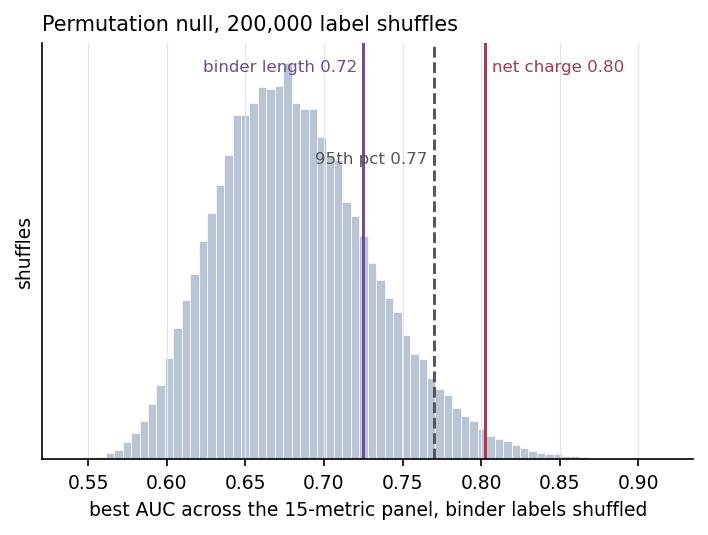
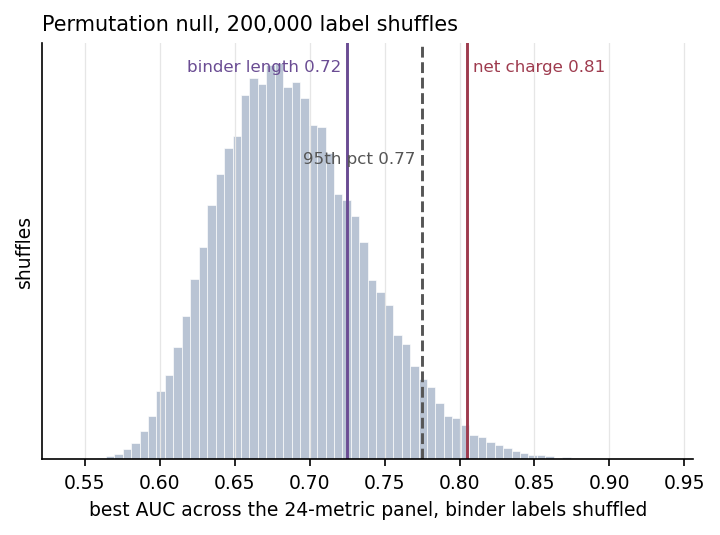
small edits

Changed region(s): [[0.0932, 0.0897, 0.9944, 0.9869], [0.0621, 0.0299, 0.6525, 0.0598], [0.0, 0.3888, 0.0621, 0.5682]]

diff --git a/_posts/2026-09-24-binders-for-rbx1.md b/_posts/2026-09-24-binders-for-rbx1.md
@@ -5,18 +5,18 @@ date: 2026-09-24
 custom_js: https://cdnjs.cloudflare.com/ajax/libs/3Dmol/2.1.0/3Dmol-min.js
 ---
 
-Of the 24 metrics I computed over the 322 designs from the GEM/Adaptyv RBX1 competition, the ones that predict whether a design *expresses* are mostly not the ones that predict whether it *binds*, and several of them predict the two in opposite directions.
+Of the 24 metrics I computed over the 321 measured designs from the GEM/Adaptyv RBX1 competition, the ones that predict whether a design *expresses* are mostly not the ones that predict whether it *binds*, and several of them predict the two in opposite directions.
 
 ![AUC for each metric, expression vs binding](/images/rbx1/auc-expression-vs-binding.png)
 
 The metrics are plotted in their raw direction, so distance from the dashed line at 0.5 is what's important and anything to the left of it is predicting in reverse. (The figure shows 19 of the 24; the near-duplicate aggregations are in the tables below.) There are four standout results here:
 
 - **The two charge metrics are the only ones near the top for both.** `seq_fraction_charged` is the best expression predictor at 0.740 and is third for binding at 0.695; net charge at pH 7 is the strongest binding signal and third strongest for expression. Everything else that is good at one is mediocre or reversed at the other.
-- **Binder length, interface contacts, buried SASA and aggregation all sit below 0.5 for expression and above it for binding.** Filtering hard on expression proxies is therefore partly selecting against binding.
-- **The strongest single binding signal is net charge at pH 7**, which lands at 0.197, meaning 0.80 read in the negative direction. A plain sequence property with no structural information in it beats every interface metric here, and every `iface_*` metric except `iface_pdockq` falls within 0.07 of chance, with `iface_iptm` the furthest out at 0.561 and `iface_pdockq2` the closest in at 0.496.
-- **The best metric by AUC isn't the one I'd rank on.** This one isn't in the plot: net charge has the best AUC but an average precision of 0.088, against 0.229 for interface contacts. With a budget to test 20 designs I'd pick differently.
+- **Binder length, interface contacts, buried SASA and aggregation all sit below 0.5 for expression and above it for binding.** These four point one way for binding and the other for expression. 
+- **The strongest single binding signal is net charge at pH 7**, which lands at 0.195, or 0.81 when read in the negative direction. A plain sequence property with no structural information in it beats every interface metric here, and every `iface_*` metric except `iface_pdockq` falls within 0.07 of chance, with `iface_iptm` the furthest out at 0.561 and `iface_pdockq2` the closest in at 0.495. Given the disagreement between `iface_pdockq` and `iface_pdockq2` we shouldn't read much into that exception.
+- **The interface metrics mainly seem to predict expression, not binding.** The expression side has 255 positives and enough statistical power to determine significance, and there eleven of the 24 metrics clear a permutation-corrected bar, `ipTM`, `LIS`, `pDockQ2` and `iPAE` among them. The same metrics are indistinguishable from noise on binding. These metrics clearly predict expression, but we can't be sure that they predict binding using this data.
 
-With 9 binders out of 322 none of this is conclusive, and I'll come back to that below. The rest of this post is how I got there: a pipeline for generating binders, and then a look at how the competition's binders would have scored against the usual selection metrics.
+With 9 binders out of 321 this is enough to pick out one signal and not enough to judge the rest, so there isn't the statistical power here to say with much confidence what does and doesn't correlate with binding. The rest of this post is how I got there: a pipeline for generating binders, and then a look at how the competition's binders would have scored against the usual selection metrics.
 
 ## Why RBX1 is hard
 
@@ -30,7 +30,7 @@ On the other end of the protein it has three zinc ions which get held in a cross
 
 And finally it lacks useful evolutionary relatives or analogues, so MSA based approaches have little to go on.
 
-The scale of the problem shows in the fold-prediction baselines. According to a [blog post by the winners of the competition](https://research.mandrake.bio/p/we-dont-even-design-binders), Mandrake bio, ESMFold reaches pLDDT 0.40 on this target, Protenix ab initio 0.60, Boltz-2 0.63. All of these are uninformative or marginal. In adaptyv's competition out of 322 designs, only 9 bound to the target and 255 expressed.
+The scale of the problem shows in the fold-prediction baselines. According to a [blog post by the winners of the competition](https://research.mandrake.bio/p/we-dont-even-design-binders), Mandrake bio, ESMFold reaches pLDDT 0.40 on this target, Protenix ab initio 0.60, Boltz-2 0.63. All of these are uninformative or marginal. In adaptyv's competition, of the 321 designs that were actually measured, only 9 bound to the target and 255 expressed.
 
 Mandrake's ORBIT pipeline took an approach that:
 
@@ -91,7 +91,7 @@ The first question is: when we use RFDiffusion to design binders against our fol
 
 
 ### Are the sequences self consistent?
-RFDiffusion gives us a structure which hopefully gets nice and close to our stated binding spots, which we can then reverse-fold into a sequence using SolubleMPNN. The natural question is then: If we do this and then refold the sequences do we get back to something that looked like the original sequence we proposed, or does SolubleMPNN just hallucinate something that doesn't give us the sequence we want? Unfortunately since we don't get the original sequences from the 322 contest entries we can't check this for them, but we can test the generated backbones from the last step.
+RFDiffusion gives us a structure which hopefully gets nice and close to our stated binding spots, which we can then reverse-fold into a sequence using SolubleMPNN. The natural question is then: If we do this and then refold the sequences do we get back to something that looked like the original sequence we proposed, or does SolubleMPNN just hallucinate something that doesn't give us the sequence we want? Unfortunately since we don't get the original sequences from the 322 released contest entries we can't check this for them, but we can test the generated backbones from the last step.
 
 | | value |
 |---|---|
@@ -104,12 +104,12 @@ RFDiffusion gives us a structure which hopefully gets nice and close to our stat
 Looks pretty good, SolubleMPNN clearly does a good job at this.
 
 ## Evaluating the published dataset
-In the next couple of sections we will take a really crude look at what metrics predict expression and binding in the set of proposed binders released after the competition. To do this properly we should probably look more generally beyond RBX1 considering how few binders there were and deal with uncertainty and significance properly. But just to start let's see.
+In the next couple of sections we will take a look at what metrics predict expression and binding in the set of proposed binders released after the competition. 
 
-Throughout, AUCs are reported in each metric's raw direction, except the error and energy metrics marked *(sign-flipped)*, where the raw quantity is one you want to minimise. Average precision is raw throughout, which matters for the metrics that predict in reverse. An AUC below 0.5 doesn't mean the metric is useless, it means it predicts in reverse: subtract it from 1 to get its strength in the other direction. So what matters is distance from 0.5, not whether a number is large.
+Throughout, AUCs are reported in each metric's raw direction, except the error and energy metrics marked *(sign-flipped)*, where the raw quantity is one you want to minimise. Average precision is raw throughout, which matters for the metrics that predict in reverse. An AUC below 0.5 doesn't mean the metric is useless, it means it predicts in reverse: subtract it from 1 to get its strength in the other direction. So what matters is distance from 0.5, not just the size of the number.
 
 ### Expression (n=321, 255 expressed)
-Before a design can bind to the target it must express, meaning they must be able to be produced in the assay adaptyv used. (Note one design had no binder label.)
+Before a design can bind to the target it must express, meaning they must be able to be produced in the assay Adaptyv used. (322 designs were released but one, `ivory-dove-granite`, carries no experimental record of any kind, so every number here is over the 321 that were actually measured.)
 
 | metric | AUC |
 |---|---|
@@ -117,23 +117,23 @@ Before a design can bind to the target it must express, meaning they must be abl
 | `binder_mean_plddt` | 0.633 |
 | `iface_pdockq2` | 0.632 |
 | `iface_ipae` *(sign-flipped)* | 0.631 |
-| `struct_binding_energy` *(sign-flipped)* | 0.620 |
 | `iface_lis` | 0.620 |
 | `iface_iptm` | 0.619 |
+| `struct_binding_energy` *(sign-flipped)* | 0.618 |
 | `iface_ipsae_min` | 0.614 |
-| `struct_dg_dsasa_ratio` *(sign-flipped)* | 0.610 |
+| `struct_dg_dsasa_ratio` *(sign-flipped)* | 0.608 |
 | `iface_i_pdae` (symmetrised) | 0.607 |
 | `iface_ipsae` | 0.605 |
-| `iface_i_pdae_asymmetric` | 0.604 |
+| `iface_i_pdae_asymmetric` | 0.603 |
 | `iface_pdockq` | 0.580 |
-| `struct_interface_hbonds` | 0.534 |
-| `struct_shape_complementarity` | 0.533 |
-| `struct_interface_hydrophobicity` | 0.512 |
-| `struct_interface_hydrophobic_fraction` | 0.493 |
+| `struct_interface_hbonds` | 0.537 |
+| `struct_shape_complementarity` | 0.532 |
+| `struct_interface_hydrophobicity` | 0.509 |
+| `struct_interface_hydrophobic_fraction` | 0.494 |
 | `struct_buried_sasa` | 0.435 |
-| `struct_contacts` | 0.414 |
+| `struct_contacts` | 0.415 |
 | `binder_length` | 0.406 |
-| `seq_aggregation` | 0.369 |
+| `seq_aggregation` | 0.368 |
 | `seq_pi` | 0.323 |
 | `seq_net_charge_ph7` | 0.311 |
 | `seq_gravy` | 0.278 |
@@ -142,10 +142,14 @@ This makes sense, the SolubleMPNN weights were shown to be very important to get
 
 pLDDT and iPAE, the folding model's confidence in its own predictions on a per residue level and predicted aligned error respectively, are inherited by or correlated with a lot of the interface metrics. It makes sense for these to be positively correlated with expression: if the model is more confident that it has predicted the structure right, or if it predicts a lower average error when aligning on all the residues, the design is probably more plausible as a real structure. Maybe. And as we will see, expression doesn't guarantee binding.
 
+The expression side is also the half of this dataset with enough positives to speak confidently on. Running a 24-metric permutation test here, where 255 positives put the best-of-panel null at 0.58 rather than 0.69, eleven of the 24 clear the bar: the four charge and hydropathy metrics (`seq_fraction_charged`, `seq_pi`, `seq_net_charge_ph7`, `seq_gravy`) overwhelmingly, at p < 0.0001, then `binder_mean_plddt`, `seq_aggregation`, `iface_pdockq2`, `iface_ipae`, `iface_lis`, `iface_iptm` and `struct_binding_energy` between 0.011 and 0.042. So the interface-confidence metrics predict expression well here.
+
+It's worth noting that what really constrains our confidence here isn't the 255 expressors, it's the 66 failures: the minority class determines the standard error. With 66 of them the bar a metric needs to pass sits at about 0.61 and the smallest effect I could reliably catch is around AUC 0.64, which is why eleven metrics clear it here and, as we'll see, we struggle to make reliable inferences with only 9 recorded binders.
+
 Another problem with these metrics is that they are, of course, biased towards proteins which already exist and which were in the training set of whichever folding model you use, and we are interested in generating and selecting novel proteins.
 
 
-### Binding (n=322, 9 binders)
+### Binding (n=321, 9 binders)
 
 There are far fewer binders than expressors, so these results need to be taken with a proportionally larger pinch of salt.
 
@@ -153,36 +157,30 @@ There are far fewer binders than expressors, so these results need to be taken w
 |---|---|---|
 | `binder_length` | 0.725 | 0.164 |
 | `seq_fraction_charged` | 0.695 | 0.058 |
-| `struct_contacts` | 0.677 | **0.229** |
-| `seq_aggregation` | 0.662 | 0.048 |
-| `struct_buried_sasa` | 0.662 | 0.207 |
-| `iface_pdockq` | 0.639 | 0.058 |
-| `struct_interface_hbonds` | 0.562 | 0.086 |
+| `struct_contacts` | 0.678 | **0.230** |
+| `seq_aggregation` | 0.664 | 0.049 |
+| `struct_buried_sasa` | 0.663 | 0.208 |
+| `iface_pdockq` | 0.640 | 0.058 |
+| `struct_interface_hbonds` | 0.564 | 0.088 |
 | `iface_iptm` | 0.561 | 0.100 |
-| `binder_mean_plddt` | 0.545 | 0.034 |
+| `binder_mean_plddt` | 0.543 | 0.034 |
 | `iface_i_pdae` (BindCraft2, symmetrised) | 0.539 | 0.091 |
 | `iface_ipsae_min` (Overath et al.'s preferred aggregation) | 0.532 | 0.090 |
 | `iface_ipsae` (tool's default "max" aggregation) | 0.531 | 0.047 |
 | `iface_i_pdae_asymmetric` | 0.523 | 0.053 |
 | `iface_lis` | 0.522 | 0.042 |
 | `struct_interface_hydrophobic_fraction` (BindCraft's definition) | 0.516 | 0.032 |
-| `struct_interface_hydrophobicity` (area-weighted) | 0.498 | 0.032 |
-| `iface_pdockq2` | 0.496 | 0.042 |
-| `iface_ipae` *(sign-flipped)* | 0.466 | 0.035 |
-| `struct_dg_dsasa_ratio` *(sign-flipped)* | 0.464 | 0.029 |
-| `seq_gravy` | 0.432 | 0.027 |
-| `struct_binding_energy` *(sign-flipped)* | 0.419 | 0.027 |
-| `struct_shape_complementarity` | 0.417 | 0.026 |
-| `seq_pi` | 0.312 | 0.021 |
-| `seq_net_charge_ph7` | **0.197** | 0.018 |
+| `struct_interface_hydrophobicity` (area-weighted) | 0.506 | 0.033 |
+| `iface_pdockq2` | 0.495 | 0.042 |
+| `struct_dg_dsasa_ratio` *(sign-flipped)* | 0.466 | 0.029 |
+| `iface_ipae` *(sign-flipped)* | 0.464 | 0.035 |
+| `seq_gravy` | 0.434 | 0.027 |
+| `struct_binding_energy` *(sign-flipped)* | 0.420 | 0.027 |
+| `struct_shape_complementarity` | 0.418 | 0.026 |
+| `seq_pi` | 0.310 | 0.021 |
+| `seq_net_charge_ph7` | **0.195** | 0.018 |
 
-Read by distance from 0.5, the top of this table is `seq_net_charge_ph7` at 0.197, which is 0.80 in the negative direction. More negatively charged designs bind more often, and `seq_pi` at 0.312 says the same thing from a different angle. A sequence-level property with no structural information in it is the strongest signal here, while `ipSAE_min`, `LIS`, `pDockQ2` and the rest of the `iface_*` panel that selection pipelines are usually built around all fall within 0.07 of chance, apart from `iface_pdockq`: `iface_iptm` is the furthest out at 0.561 and `iface_pdockq2` the closest in at 0.496.
-
-The average precision column is raw, which makes `seq_net_charge_ph7` look terrible: 0.018, under the 2.8% base rate (9 binders in 322, so that is what a random ordering scores). That is just what you get ranking by raw net charge when the binders are the negative ones. Flipped it is 0.088, about three times the base rate, but `struct_contacts` manages 0.229 and `struct_buried_sasa` 0.207. So the best metric by AUC isn't the one I'd rank on if I could only test 20 designs. AUC uses the whole ordering, AP mostly only cares about the top of it.
-
-The rest of the ordering seems reasonable by eye. RBX1 is a pretty complicated molecule, so minimal scaffolds like minibinders may struggle to attach whereas a larger properly folded molecule has more to work with, which fits binder length coming out high.
-
-The other metrics that do well all have something to do with the binding site, or with properties that make a molecule better or worse at sticking to another. `seq_fraction_charged` is about how much of the sequence has charged residues. `seq_aggregation` slides a 7 residue window over the sequence and calculates hydropathy, basically asking whether there is a continuous patch with high hydrophobicity and how hydrophobic it is. `struct_buried_sasa` asks a similar question but appends "is it exposed on the outside of the molecule?". Why the simple sequence level metric with no structural information outperforms the more sophisticated `struct_buried_sasa` is a bit mysterious.
+Read by distance from 0.5, the top of this table is `seq_net_charge_ph7` at 0.195, which is 0.81 in the negative direction. More negatively charged designs bind more often, and `seq_pi` at 0.310 says the same thing from a different viewpoint. It's interesting to note that a sequence-level property with no structural information in it is the strongest signal here, while `ipSAE_min`, `LIS`, `pDockQ2` and the rest of the `iface_*` panel, that selection pipelines are usually built around, and which are computed by looking at structure, all fall within 0.07 of chance, apart from `iface_pdockq` (although we probably shouldn't read much into this given `pdockq2` falls within chance): `iface_iptm` is the furthest out at 0.561 and `iface_pdockq2` the closest in at 0.495.
 
 ### Is any of this real?
 
@@ -190,37 +188,51 @@ The ROC curves for four of the strongest signals, dropping `seq_pi` as a near-du
 
 ![ROC curves for the top binding predictors](/images/rbx1/roc-binding.png)
 
-(An ROC curve has to be oriented one way, so `seq_net_charge_ph7` is drawn sign-flipped here and reads 0.80 rather than the 0.197 in the table above. Same ordering but just pointed the other way.)
+(An ROC curve has to be oriented one way, so `seq_net_charge_ph7` is drawn sign-flipped here and reads 0.81 rather than the 0.195 in the table above. Same ordering but just pointed the other way.)
 
-The bracketed numbers in the legend are 95% percentile bootstrap intervals over 10,000 resamples of the 322 designs, and they are very wide, which is a big reason not to over-read any of this. Interface contacts at 0.68 [0.49, 0.85] has an interval that reaches chance, so with nine positives it is a hint rather than anything conclusive.
+The bracketed numbers in the legend are 95% percentile bootstrap intervals over 10,000 resamples of the 321 designs, and they are very wide, which is a big reason not to over-read any of this. Interface contacts at 0.68 [0.50, 0.85] has an interval that reaches chance, so with nine positives this can't be particularly conclusive.
 
-Those intervals are also conditional on having already chosen the metric, and I chose it by looking at 24 of them. The null standard deviation of a single AUC at this sample size is 0.097, so the right question is not whether a metric beats 0.5, it's whether it beats what the best of 24 would reach anyway. Shuffling the binder labels 200,000 times and taking the best metric in the panel each time gives the answer directly.[^panel]
+Those intervals are also conditional on having already chosen the metric. The null standard deviation of a single AUC at this sample size is 0.098, so the right question is not whether a metric beats 0.5, it's whether it beats what the best of 24 would reach anyway. Shuffling the binder labels 200,000 times and taking the best metric in the panel each time gives the answer directly.
 
 ![Permutation null for the best metric in the panel](/images/rbx1/permutation-null.png)
 
-The bar is around 0.7, not 0.5. Only net charge clears it, at 0.803 with a family-wise p of 0.015. Binder length (0.725) and fraction charged (0.695) sit inside the null, which means I can't separate them from noise here.
+The bar is around 0.69, not 0.5, and one shuffle in twenty puts the best metric above 0.77 with no signal in the data at all. Only net charge clears it, at 0.81 with a family-wise p of 0.015. Binder length (0.725) and fraction charged (0.695) sit inside the null, which means I can't separate them from noise here.
 
-[^panel]: I can only shuffle 15 of the 24 metrics as I didn't save all the results I needed, but missing metrics can only raise the bar, and it rises fastest when they share nothing with the ones I do have. Adding nine completely unrelated metrics puts it at 0.70 at worst, where net charge still passes (p = 0.026) and binder length and fraction charged still don't (0.33 and 0.59).
+What's becoming clear as I do this is that nine binders out of 321 is enough to pick out one signal and not enough to judge the rest, which argues for looking beyond a single target or generating more binders for RBX1.
 
-The charge result is the one worth looking at further, so that's the next section.
+Putting a number on it: with nine positives the corrected bar is 0.77, and the smallest true effect I could catch 80% of the time is an AUC of **0.83**. Anything weaker than that won't show up here.
+
+| true AUC | chance of clearing the bar at 9 binders |
+|---|---|
+| 0.60 | 3% |
+| 0.65 | 9% |
+| 0.70 | 21% |
+| 0.75 | 40% |
+| 0.80 | 64% |
+| 0.85 | 88% |
+
+Note the 0.80 row. A metric exactly as good as net charge appears to be would clear this bar only about two times in three. (Each row is 2,000 simulated metrics. I generated the metric two ways, from a normal model and by resampling the real net charge values and relabelling them to hit the target AUC, since the real metrics are skewed and have a lot of ties. The two agree to within a couple of points, so it doesn't seem to matter which.)
+
+I did wonder whether I could lower the bar by testing fewer things, since a lot of the panel is near-duplicated: `ipSAE` and `ipSAE_min`, `i_pdae` and its asymmetric version, the three hydrophobicity variants. But it doesn't really change things. A panel of 24 uncorrelated metrics gives a bar of 0.79 and the real one gives 0.775. Matching that against simulated independent panels puts this one at about 13 effective metrics rather than 24.
+
+Having said this, lets still take a look at what charge might tell us about the binders and the target.
 
 ### So if the binders are negatively charged...
 
-It makes sense at this point to ask the obvious question: Is there some physical reason why the binders have lower net charge than the non-binders? For instance are the binding sites of rbx1 strongly positively charged, rewarding more negatively charged binders? The answer seems to be no.
+It makes sense at this point to ask the obvious question: Is there some physical reason why the binders have lower net charge than the non-binders? For instance are the binding sites of RBX1 strongly positively charged, rewarding more negatively charged binders? 
 
 | | binder median | non-binder median | AUC | p-value |
 |---|---|---|---|---|
 | actual_site_net_charge (all real contacts) | -0.781 | -0.782 | 0.597 | 0.3211 |
 | actual_site_net_charge (ordered contacts only, excl. 1-39) | -1.052 | -0.783 | 0.473 | 0.7765 |
 
-So if we trust the locations these binders end up using my pipeline (big if), then there isn't really any significant signal either way and it isn't clear why lower charged proposed binders are more likely to be successful.
-
+There isn't really any signal here so it isn't clear why lower charge binders seem to do better.
 
 ### Which binders would survive Overath et al.'s filter
 
 - *Threshold strategy* (`ipSAE_min > 0.61` OR `ipSAE_min x interface_dG/dSASA < -1.5` OR
-  `LIS x shape_complementarity > 0.42`): 63/322 designs pass; of those, 3/9 are real binders
-  (precision 4.8% vs a 2.8% base rate). With `ipSAE_min > 0.61` alone: 61/322 pass, 3/9 binders caught.
+  `LIS x shape_complementarity > 0.42`): 63/321 designs pass; of those, 3/9 are real binders
+  (precision 4.8% vs a 2.8% base rate). With `ipSAE_min > 0.61` alone: 61/321 pass, 3/9 binders caught.
 - *Ranking strategy* (prefilter on shape complementarity + RMSD_binder, then rank survivors by
   ipSAE_min): the RMSD_binder prefilter needs a reference/design structure that these archived
   competition designs don't give us, so only the shape-complementarity prefilter is applied here.
@@ -238,7 +250,7 @@ So we don't really do all that well if this is all we rely on.
 
 ### How do my own designs stand up
 
-Because I am able to provide my own structures on the 10 designs I produced we can run the full prefilter. In this case only **1 of 10** designs passes both `struct_shape_complementarity > 0.62` and `struct_binder_rmsd < 3.73 A` at once (`bb_4_sample3`, Sc=0.622, RMSD_binder=3.28 A). Here it is in its predicted binding spot:
+Because I am able to provide my own structures on the 10 designs I produced we can run the full prefilter. In this case only **1 of 10** of my designs passes both `struct_shape_complementarity > 0.62` and `struct_binder_rmsd < 3.73 A` at once (`bb_4_sample3`, Sc=0.622, RMSD_binder=3.28 A). Here it is in its predicted binding spot:
 
 <div id="viewer-bb4sample3" style="width: 100%; height: 420px; position: relative;"></div>
 <script>
@@ -298,9 +310,20 @@ The winning binder definitely looks more complicated than both of the ones I gen
 
 It would be cool if in future competitions the design structures and predicted co-folds could be included, perhaps along with predicted epitope. I don't think it would be that much to ask competitors to include this and would be a useful tool for analysis. For instance, I'm interested to know where binders were predicted to land on RBX1 by the competitors' pipelines and how this prediction would differ using my own pipeline.
 
-Based on my own pipeline only 4/9 of the binders make any contact with my chosen sites (A74/F81/Y106) and the best binder from Mandrake makes significant contact with the disordered region that I ruled out (without thinking about it too much). Again this can only be trusted so far since we don't know what the competitors models predicted, nor do we know where the binder actually lands in vitro.
+The other thing these numbers argue for is more positives. At the competition's 2.8% hit rate, 80% power against a moderately useful metric needs this many designs through the assay:
 
-Some questions I think I'll try to answer for the next competition:
+| true AUC you want to detect | binders needed | designs to assay |
+|---|---|---|
+| 0.60 | 122 | ~4,400 |
+| 0.65 | 53 | ~1,900 |
+| 0.70 | 29 | ~1,000 |
+| 0.75 | 18 | ~640 |
+
+That's three to six times the size of this round to resolve anything in the 0.65 to 0.70 range, which is probably not going to happen. This assumes that in any set of designs around 2.8% are binders, but that's only in this set proposed designs. So in reality we would probably need to assay many more designs to hit these numbers.
+
+The expression side has the same problem at the other end. It looks well powered, but that comes from the 66 failures rather than the 255 successes. This would be an easier fix, just assay more designs that don't pass the filters. That would probably raise the failure rate a bit.
+
+Remaining questions:
 
 1. How do you select binding sites, can this be done after folding by calculating things about the protein?
 2. How can I generate more diverse binders?
